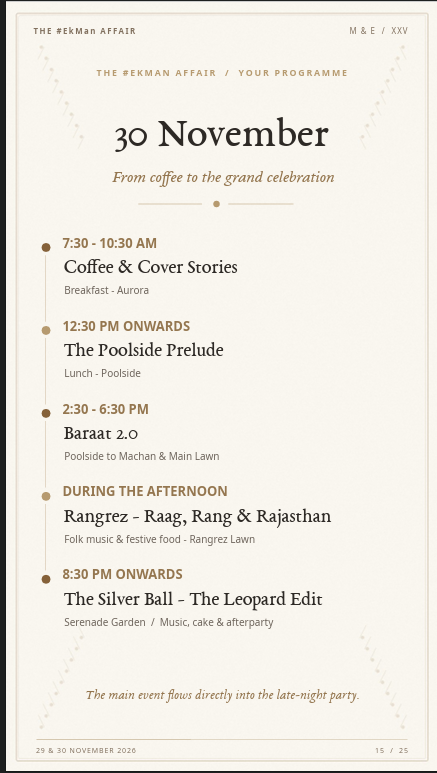
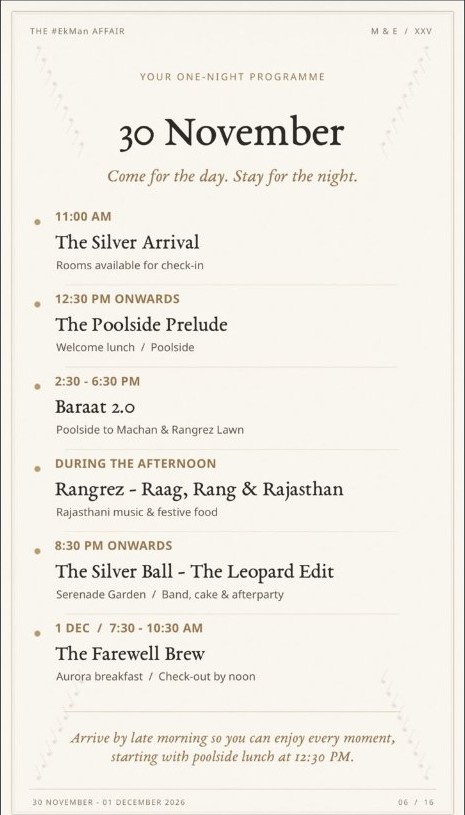
Update 30 Nov morning event from Coffee & Cover Stories to The Silver Arrival as per one-night programme card

diff --git a/index.html b/index.html
@@ -1623,7 +1623,7 @@ var observer=new IntersectionObserver(function(entries) {if(entries[0].isInterse
         <div class="ekman-overview-title-block">
           <div class="ekman-overview-pre">THE #EKMAN AFFAIR / YOUR PROGRAMME</div>
           <h3 class="ekman-overview-date">30 November</h3>
-          <div class="ekman-overview-tagline">From coffee to the grand celebration</div>
+          <div class="ekman-overview-tagline">Come for the day. Stay for the night.</div>
           <div class="ekman-ornament" style="margin: 16px auto 0;">
             <div class="ekman-ornament-line"></div>
             <div class="ekman-ornament-dot"></div>
@@ -1632,12 +1632,12 @@ var observer=new IntersectionObserver(function(entries) {if(entries[0].isInterse
         </div>
 
         <div class="ekman-overview-timeline">
-          <a class="ekman-timeline-item" href="#ev-coffee-cover-stories">
+          <a class="ekman-timeline-item" href="#ev-silver-arrival-day2">
             <div class="ekman-timeline-dot"></div>
             <div class="ekman-timeline-content">
-              <div class="ekman-timeline-time">7:30 - 10:30 AM</div>
-              <div class="ekman-timeline-title">Coffee &amp; Cover Stories</div>
-              <div class="ekman-timeline-sub">Breakfast - Aurora</div>
+              <div class="ekman-timeline-time">11:00 AM</div>
+              <div class="ekman-timeline-title">The Silver Arrival</div>
+              <div class="ekman-timeline-sub">Rooms available for check-in</div>
             </div>
           </a>
 
@@ -1678,7 +1678,7 @@ var observer=new IntersectionObserver(function(entries) {if(entries[0].isInterse
           </a>
         </div>
 
-        <div class="ekman-overview-foot-quote">The main event flows directly into the late-night party.</div>
+        <div class="ekman-overview-foot-quote">Arrive by late morning so you can enjoy every moment, starting with poolside lunch at 12:30 PM.</div>
 
         <div class="ekman-card-actions">
           <button class="ekman-action-btn" onclick="ekmanOpenLightbox('images/events/p15_day2_overview.png', '30 November • Programme Overview')">
@@ -1688,46 +1688,46 @@ var observer=new IntersectionObserver(function(entries) {if(entries[0].isInterse
         </div>
 
         <div class="ekman-card-bottom-bar">
-          <span>29 &amp; 30 NOVEMBER 2026</span>
-          <span>15 / 25</span>
+          <span>30 NOVEMBER - 01 DECEMBER 2026</span>
+          <span>06 / 16</span>
         </div>
       </div>
 
-      <!-- EVENT 6: Coffee & Cover Stories -->
-      <div class="ekman-event-card" id="ev-coffee-cover-stories">
+      <!-- EVENT 6: The Silver Arrival (30 Nov) -->
+      <div class="ekman-event-card" id="ev-silver-arrival-day2">
         <div class="ekman-card-top-bar">
           <span>THE #EkMan AFFAIR</span>
           <span>M &amp; E / XXV</span>
         </div>
 
-        <div class="ekman-act-badge">30 NOVEMBER / THE MORNING AFTER</div>
-        <div class="ekman-giant-num">07:30</div>
+        <div class="ekman-act-badge">30 NOVEMBER / ARRIVAL</div>
+        <div class="ekman-giant-num">11:00</div>
 
         <div class="ekman-ev-head">
-          <h3 class="ekman-ev-title">Coffee &amp; Cover Stories</h3>
-          <div class="ekman-ev-subtitle">&ldquo;Good mornings. Better stories from last night.&rdquo;</div>
-          <div class="ekman-ev-desc">Recharge, compare notes and casually pretend we slept early.</div>
+          <h3 class="ekman-ev-title">The Silver Arrival</h3>
+          <div class="ekman-ev-subtitle">&ldquo;Rooms available for check-in&rdquo;</div>
+          <div class="ekman-ev-desc">Arrive by late morning so you can enjoy every moment, starting with poolside lunch at 12:30 PM.</div>
         </div>
 
         <div class="ekman-meta-grid">
           <div class="ekman-meta-label">DATE</div>
           <div class="ekman-meta-val">Monday, 30 November 2026</div>
           <div class="ekman-meta-label">TIME</div>
-          <div class="ekman-meta-val"><strong>7:30 - 10:30 AM</strong></div>
+          <div class="ekman-meta-val"><strong>11:00 AM onwards</strong></div>
           <div class="ekman-meta-label">VENUE</div>
-          <div class="ekman-meta-val">AURORA / Breakfast</div>
+          <div class="ekman-meta-val">Resort reception / Rooms available for check-in</div>
         </div>
 
         <div class="ekman-card-actions">
-          <button class="ekman-action-btn" onclick="ekmanOpenLightbox('images/events/p16_event_coffee_cover_stories.png', 'Coffee & Cover Stories')">
+          <button class="ekman-action-btn" onclick="ekmanOpenLightbox('images/events/p15_day2_overview.png', 'The Silver Arrival • 30 November')">
             <svg width="14" height="14" viewBox="0 0 24 24" fill="none" stroke="currentColor" stroke-width="2"><path d="M1 12s4-8 11-8 11 8 11 8-4 8-11 8-11-8-11-8z"/><circle cx="12" cy="12" r="3"/></svg>
             View Original Card
           </button>
         </div>
 
         <div class="ekman-card-bottom-bar">
-          <span>29 &amp; 30 NOVEMBER 2026</span>
-          <span>16 / 25</span>
+          <span>30 NOVEMBER - 01 DECEMBER 2026</span>
+          <span>06 / 16</span>
         </div>
       </div>
 

diff --git a/editable/wedding-data.js b/editable/wedding-data.js
@@ -26,7 +26,7 @@ window.WEDDING_DATA = {
     { title: "Act II / The Grand Unwrapping", time: "3:30 PM" },
     { title: "Act III / Nazrana (Mehfil)", time: "8:30 PM" },
     { title: "Past Our Bedtime", time: "12:30 AM" },
-    { title: "Coffee & Cover Stories", time: "7:30 AM" },
+    { title: "The Silver Arrival", time: "11:00 AM" },
     { title: "The Poolside Prelude", time: "12:30 PM" },
     { title: "Baraat 2.0", time: "2:30 PM" },
     { title: "Rangrez Lawn", time: "2:30 PM" },
@@ -142,23 +142,23 @@ window.WEDDING_DATA = {
       dayId: "day2",
       dayTitle: "30 November",
       dayDate: "Monday, 30 November 2026",
-      tagline: "From coffee to the grand celebration",
+      tagline: "Come for the day. Stay for the night.",
       dateShort: "30 Nov",
       overviewCard: "images/events/p15_day2_overview.png",
-      footerNote: "The main event flows directly into the late-night party.",
+      footerNote: "Arrive by late morning so you can enjoy every moment, starting with poolside lunch at 12:30 PM.",
       events: [
         {
-          id: "coffee-cover-stories",
-          number: "07:30",
-          act: "30 NOVEMBER / THE MORNING AFTER",
-          title: "Coffee & Cover Stories",
-          subtitle: "Breakfast - Aurora",
-          quote: "Good mornings. Better stories from last night.",
-          description: "Recharge, compare notes and casually pretend we slept early.",
+          id: "silver-arrival-day2",
+          number: "11:00",
+          act: "30 NOVEMBER / ARRIVAL",
+          title: "The Silver Arrival",
+          subtitle: "Rooms available for check-in",
+          quote: "Come for the day. Stay for the night.",
+          description: "Arrive by late morning so you can enjoy every moment, starting with poolside lunch at 12:30 PM.",
           date: "Monday, 30 November 2026",
-          time: "7:30 - 10:30 AM",
-          venue: "AURORA / Breakfast",
-          cardImage: "images/events/p16_event_coffee_cover_stories.png"
+          time: "11:00 AM",
+          venue: "Resort reception / Rooms available for check-in",
+          cardImage: "images/events/p15_day2_overview.png"
         },
         {
           id: "poolside-prelude",
